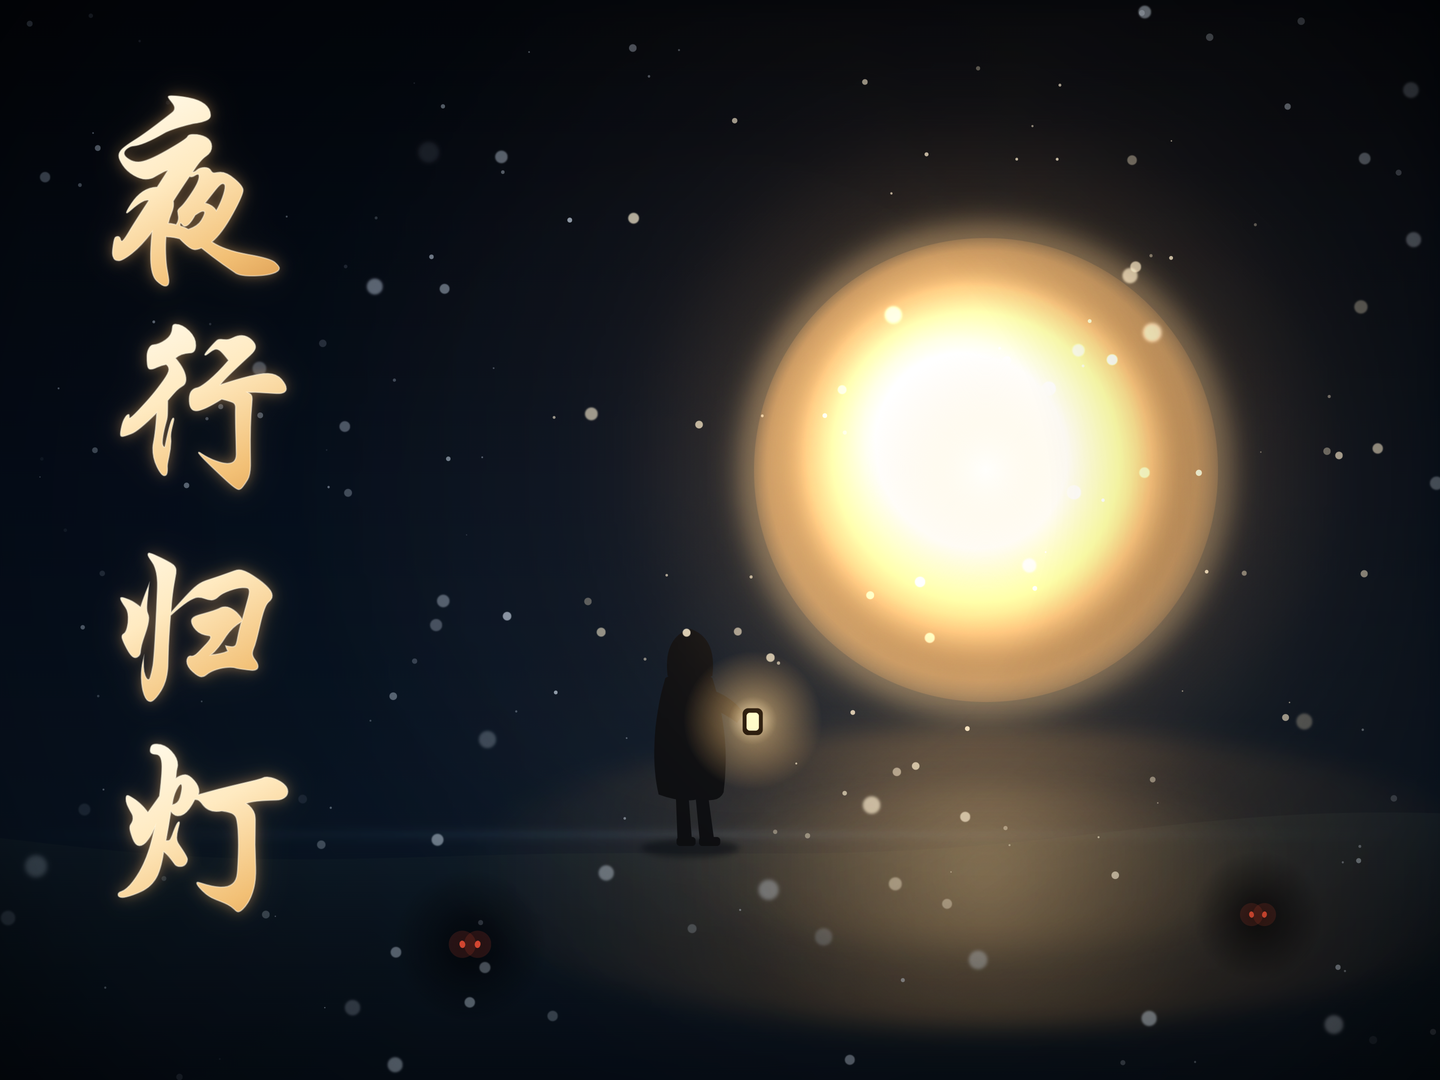
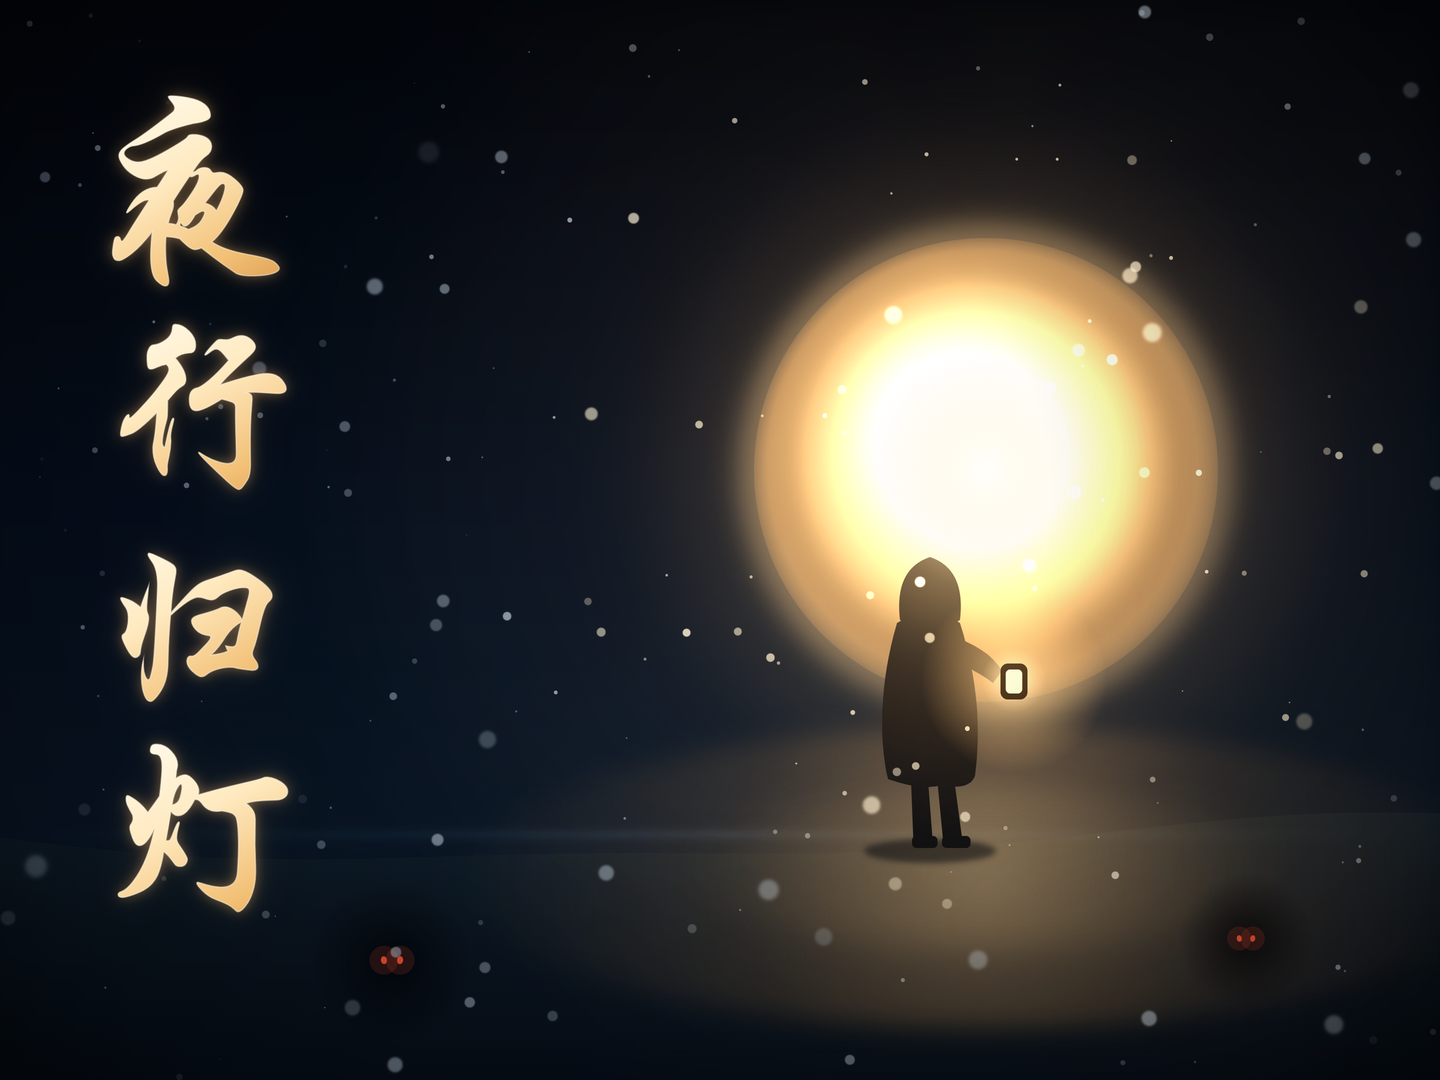
海报：逆光剪影版

diff --git a/poster_D.html b/poster_D.html
@@ -149,11 +149,11 @@
     ctx.restore();
 
     /* ---------- 小剪影：走向光 ---------- */
-    drawWalker(690, FLOOR + 8, 1.12);
+    drawWalker(930, FLOOR + 10, 1.5);
 
     /* ---------- 暗处的眼睛 ---------- */
-    drawEyes(470, 946, .85);
-    drawEyes(1258, 916, .72);
+    drawEyes(392, 962, .9);
+    drawEyes(1246, 940, .75);
 
     /* ---------- 雪 ---------- */
     ctx.save();
@@ -250,6 +250,23 @@
     ctx.lineTo(42, -110);
     ctx.quadraticCurveTo(32, -118, 16, -124);
     ctx.closePath(); ctx.fill();
+
+    // 逆光轮廓
+    ctx.save();
+    ctx.translate(x, feetY);
+    ctx.scale(sc, sc);
+    ctx.strokeStyle = 'rgba(255,246,214,1)';
+    ctx.lineWidth = 3.2;
+    ctx.lineCap = 'round';
+    // 兜帽
+    ctx.beginPath(); ctx.moveTo(-19, -164); ctx.quadraticCurveTo(-4, -196, 14, -166); ctx.stroke();
+    // 身体两侧
+    ctx.beginPath(); ctx.moveTo(-26, -142); ctx.quadraticCurveTo(-34, -110, -29, -64); ctx.stroke();
+    ctx.beginPath(); ctx.moveTo(24, -144); ctx.quadraticCurveTo(31, -110, 28, -66); ctx.stroke();
+    // 腿
+    ctx.beginPath(); ctx.moveTo(-9, -52); ctx.lineTo(-8, -10); ctx.stroke();
+    ctx.beginPath(); ctx.moveTo(9, -52); ctx.lineTo(14, -10); ctx.stroke();
+    ctx.restore();
 
     ctx.restore();
 
